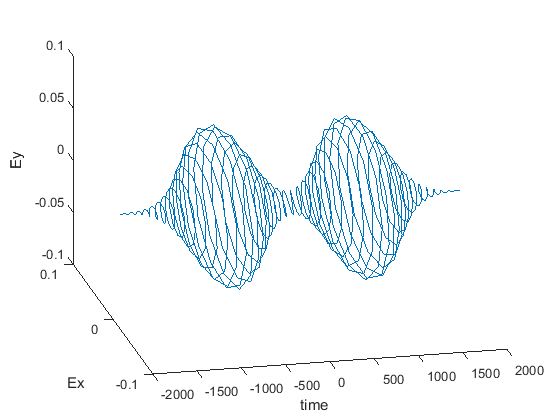
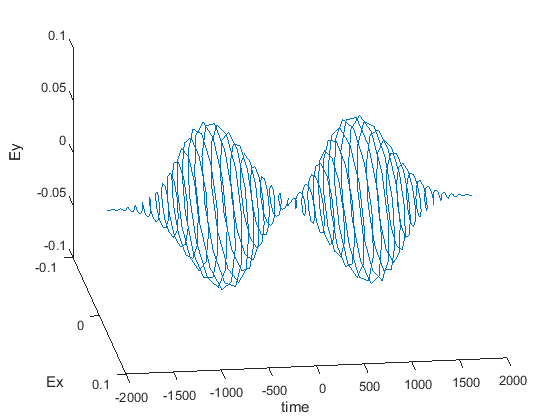
reversed orientation

diff --git a/SFA_H_3D_VORTEX.m b/SFA_H_3D_VORTEX.m
@@ -26,8 +26,8 @@ for i=1:nt
     td(i)=(i-7.0*nt/10)*dt;     %Time variable for the 2nd (delayed) pulse: [-69,30]dt increments of dt or [-1905.8,816] w/ center at -544.9 | center separation 1111.11 = 3.2507*T
     F(i)=exp(-t(i)^2/T^2);      %Envelop function for 1st pulse, Gaussian
     Fd(i)=exp(-td(i)^2/T^2);    %Envelop fuction for the 2nd (delayed) pulse, Gaussian
-    Ex(i)=   F(i)*E0    /(1+ksi^2)^0.5*cos(1.0*W*t(i)+0) + 1*Fd(i)*E0    /(1+ksi^2)^0.5*cos(-1.0*W*td(i)+pi/2);
-    Ey(i)=   F(i)*E0*ksi/(1+ksi^2)^0.5*sin(1.0*W*t(i)+0) + 1*Fd(i)*E0*ksi/(1+ksi^2)^0.5*sin(-1.0*W*td(i)+pi/2);
+    Ex(i)=   F(i)*E0    /(1+ksi^2)^0.5*cos(1.0*W*t(i)+0) + 1*Fd(i)*E0    /(1+ksi^2)^0.5*cos(1.0*W*td(i));
+    Ey(i)=   F(i)*E0*ksi/(1+ksi^2)^0.5*sin(1.0*W*t(i)+0) + 1*Fd(i)*E0*ksi/(1+ksi^2)^0.5*sin(1.0*W*td(i));
 end
 plotrange = linspace(min(td),max(t),nt);
 figure, plot(plotrange,E0*F/sqrt(2),'b', ...
@@ -35,7 +35,7 @@ figure, plot(plotrange,E0*F/sqrt(2),'b', ...
         plotrange,sqrt(Ex.^2+Ey.^2),'g'), ...
         legend('1st Pulse Envelope','2nd Pulse Envelope','E-field Magnitude'), ...
         xlabel('time')
-figure, plot3(plotrange,Ex,Ey), xlabel('time'), ylabel('Ex'), zlabel('Ey')
+figure, plot3(plotrange,Ex,Ey), xlabel('time'), ylabel('Ex'), zlabel('Ey'), set(gca, 'YDir','reverse')
 
 %Vector potential
 % E(t) = -dA(t)/dt  =>  A(t) = -Integral (t0 to t) E(t')dt'
